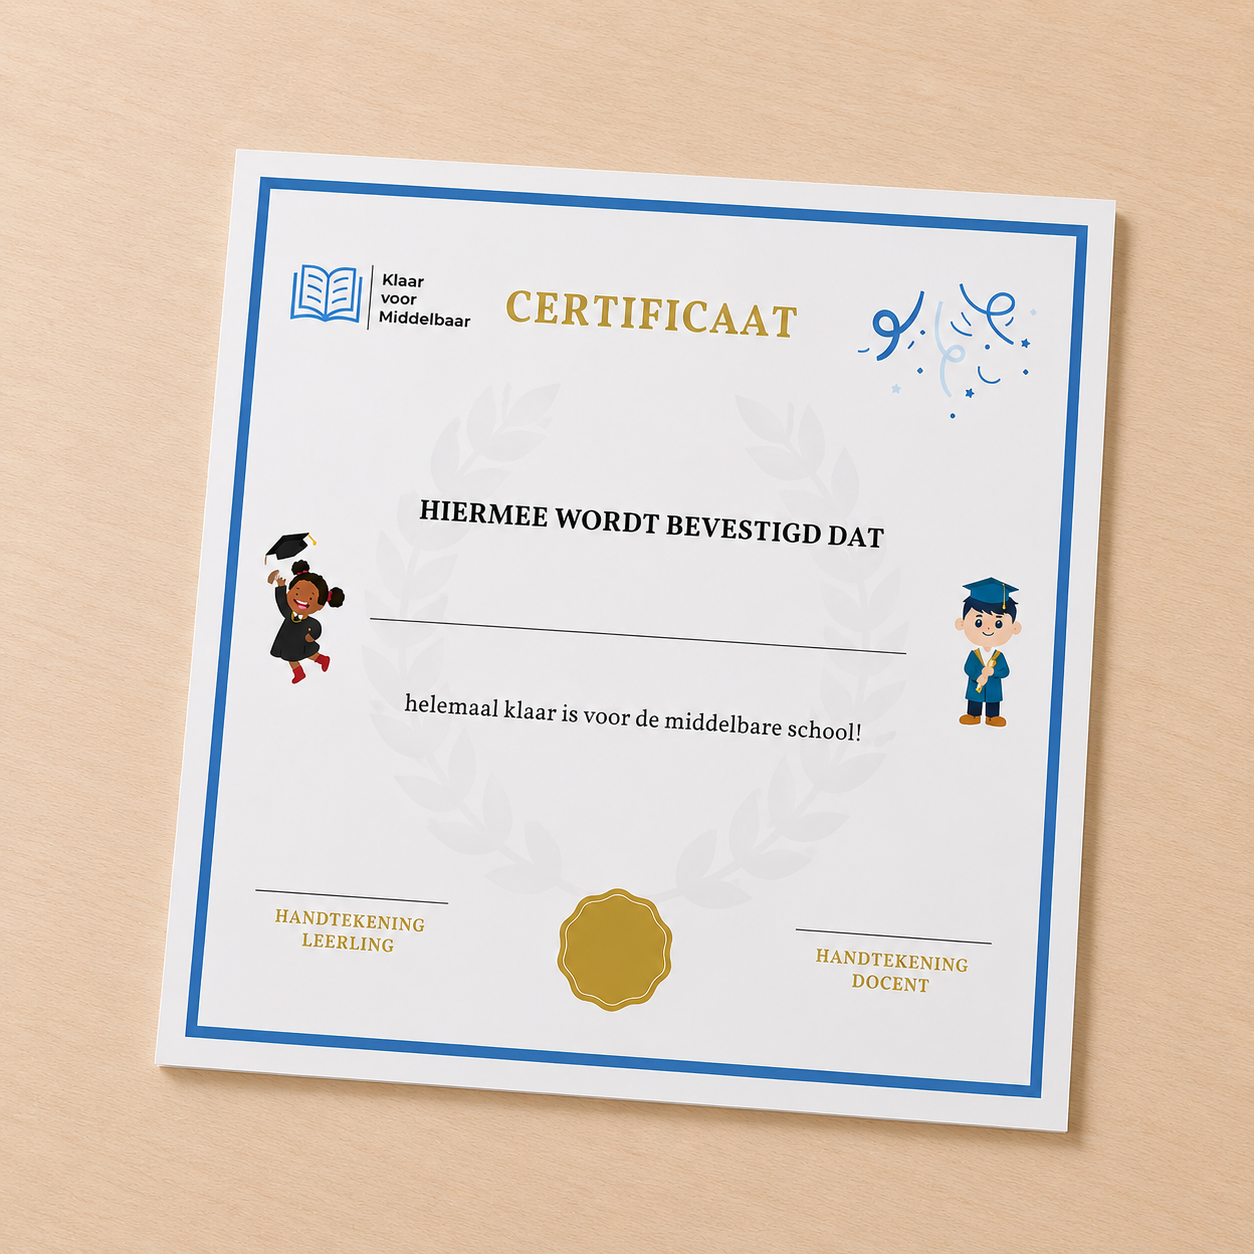
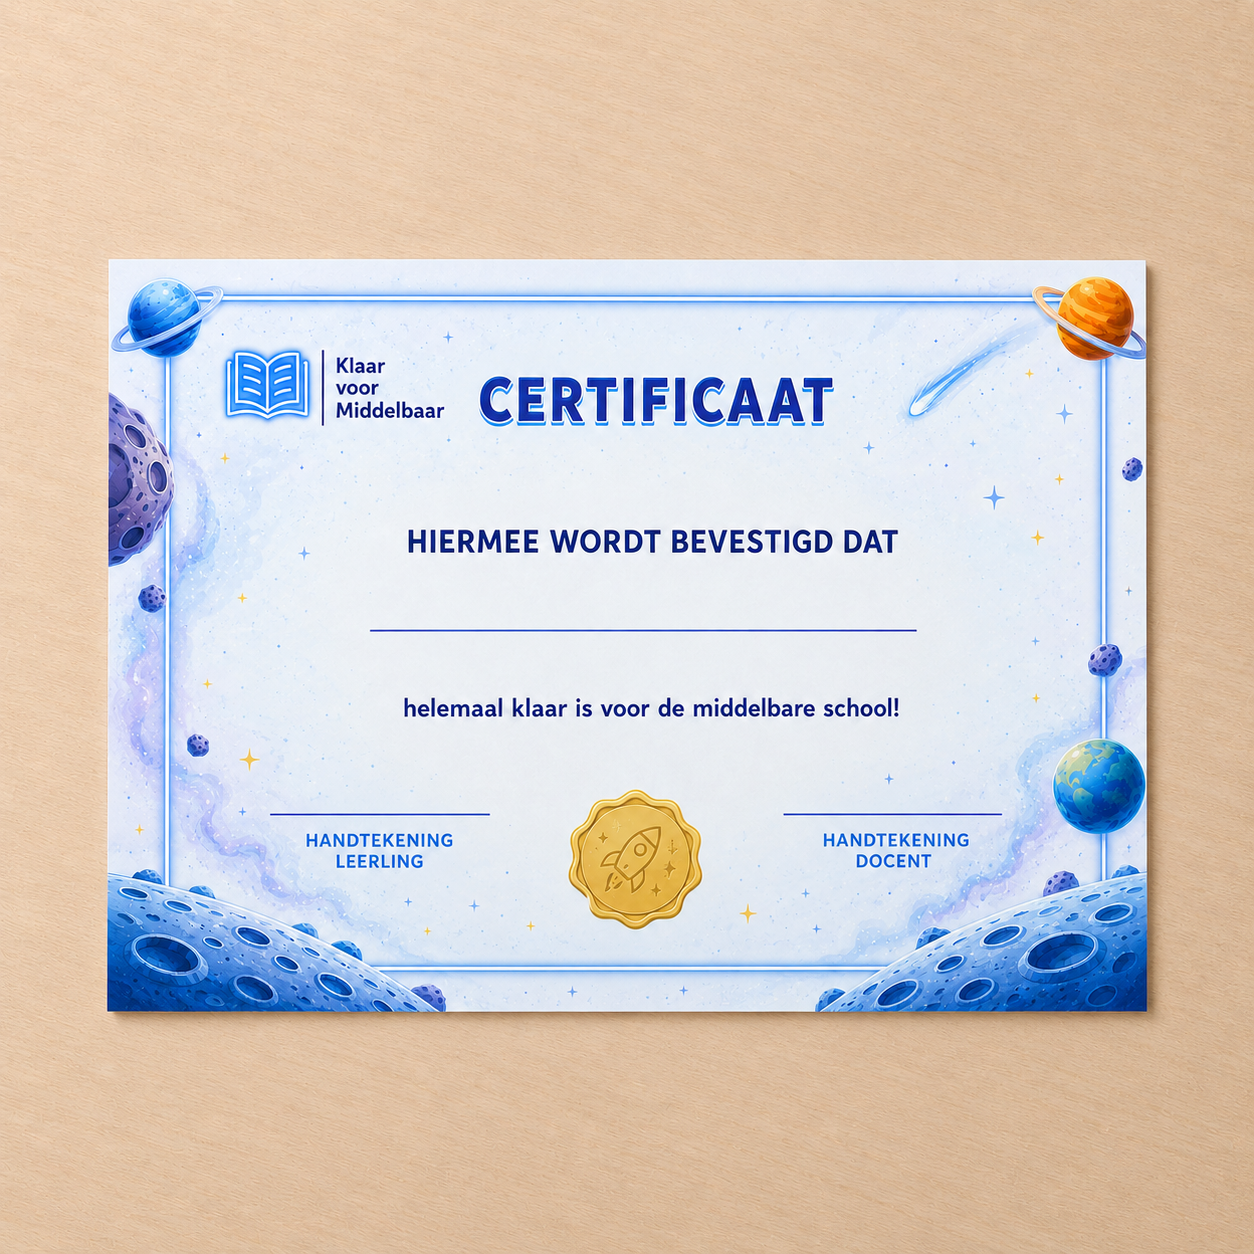
Les 8: vervang KvM Bordspel door KvM RuimteRace en verwijder quiz-knop
- Alle verwijzingen naar 'bordspel' in Les8/data.json vervangen door 'KvM RuimteRace'
- Benodigdheid-afbeelding bijgewerkt naar Les 8 - RuimteRace.png
- Start live quiz knop verborgen voor Les 8 (net als Les 7)
- Nieuwe en bijgewerkte benodigdheden-afbeeldingen toegevoegd

diff --git a/Les/index.html b/Les/index.html
@@ -761,7 +761,7 @@
                 <img src="/Afbeeldingen/emojis nieuw/vulpen.png" alt="" style="height:1.5em;width:auto;object-fit:contain;vertical-align:-0.3em"> Open boek quiz
               </a>` : ''}
               <div style="display:flex;gap:12px;">
-                ${L.n !== 7 ? `
+                ${L.n !== 7 && L.n !== 8 ? `
                 <a id="btn-quiz" class="hero-btn" href="/les${L.n}/docent/quiz" target="_blank" rel="noopener">
                   <img src="/Afbeeldingen/emojis nieuw/brein.png" alt="" style="height:1.5em;width:auto;object-fit:contain;vertical-align:-0.3em"> Start live quiz
                 </a>` : ''}
